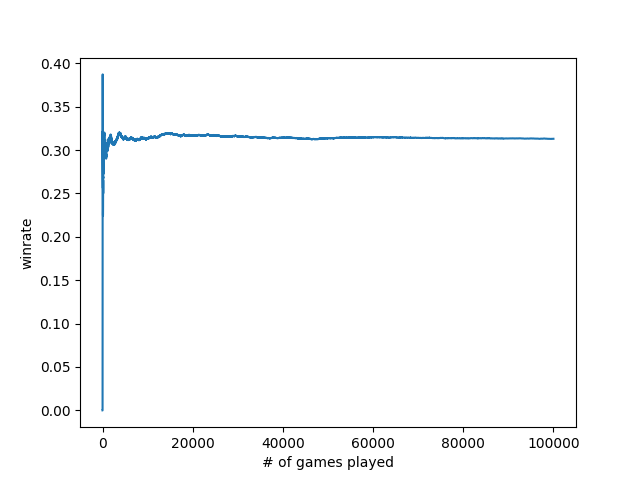
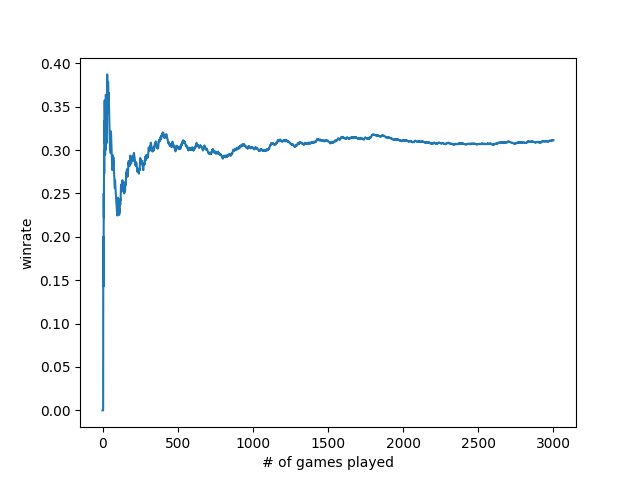
CodeCLeanUp

diff --git a/Prisoners Problem/main.py b/Prisoners Problem/main.py
@@ -1,0 +1,34 @@
+from room import CreateRoom, OpenBox, PlayGame
+import numpy as np # installed with matplotlib
+import matplotlib.pyplot as plt
+import time
+
+if __name__ == '__main__':
+
+    wins = 0
+    reps = 3000
+    tic = time.perf_counter()
+
+    x = np.array([0])
+    y = np.array([0])
+
+    for i in range(1,reps+1): 
+        room = CreateRoom(i+30000)
+        if PlayGame(room) == 1:
+            wins += 1
+
+        winrate = wins / i
+        x = np.append(x, i)
+        y = np.append(y, winrate)
+
+
+    plt.xlabel('# of games played')
+    plt.ylabel('winrate')
+    plt.plot(x, y)
+    plt.savefig('testplot.png')
+
+    toc = time.perf_counter()
+    print(toc - tic)
+
+    winrate = wins / reps
+    print(winrate)

diff --git a/Prisoners Problem/room.py b/Prisoners Problem/room.py
@@ -1,0 +1,30 @@
+import random
+
+def CreateRoom(seed):
+    array2 = list(range(1, 101))
+    
+    random.Random(seed).shuffle(array2)
+    room = {}
+
+    for  i in range(1,101):
+        room[i] = array2[i-1]
+        
+    return room
+
+def OpenBox(i, key, steps, room): #This is a recursive function which will keep opening boxes until it makes a loop 
+    if room[i] == key:
+        return steps
+    else:
+        steps += 1
+        return OpenBox(room[i], key, steps, room)
+
+def PlayGame(room):
+    totalSteps = 1
+    for i in range(1,101):
+        steps = 1
+        totalSteps += 1
+        if totalSteps >= 50:
+            return 1
+
+        if OpenBox(i, i, steps, room) > 50:
+            return 0
